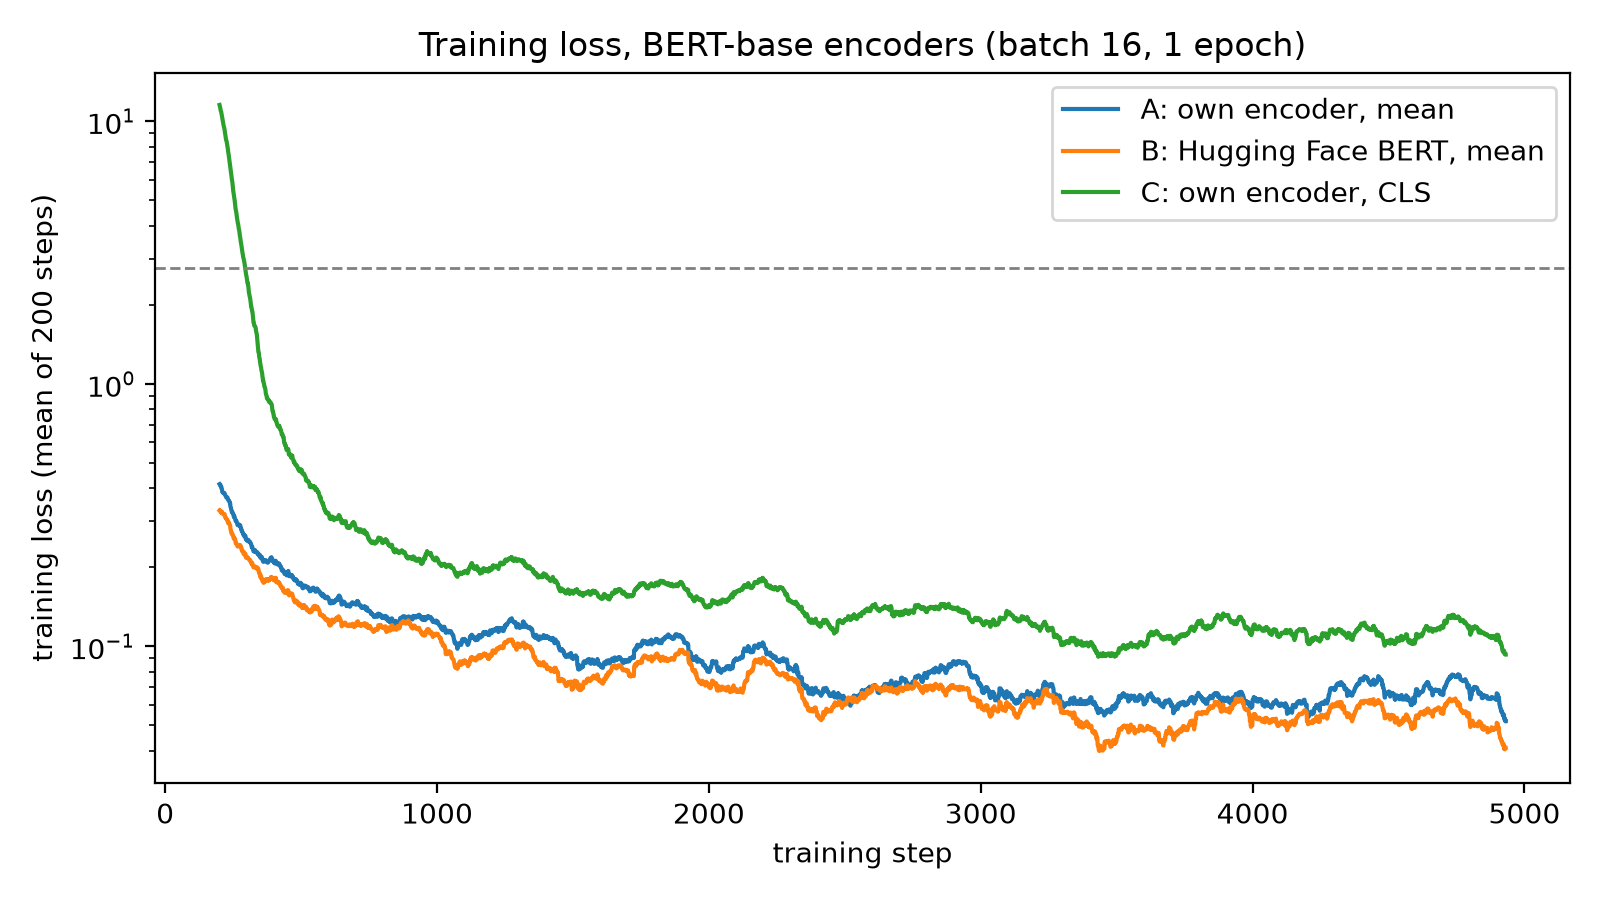
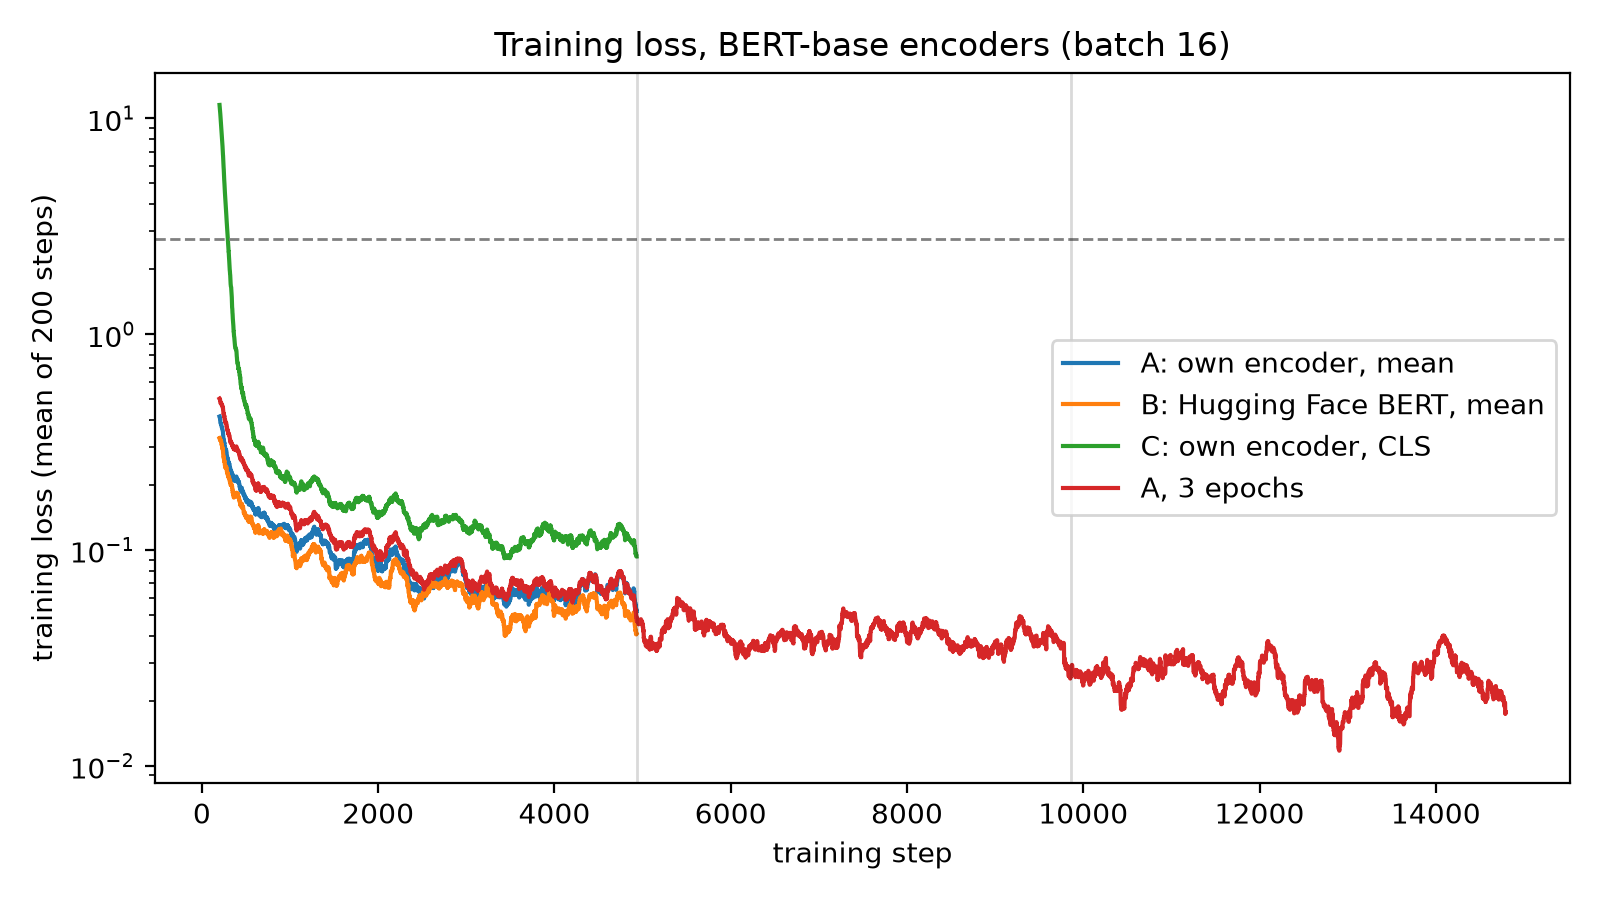
Add three-epoch run to the BERT loss plot

diff --git a/scripts/plot_training.py b/scripts/plot_training.py
@@ -66,17 +66,23 @@ bert_runs = [
     ("A: own encoder, mean", "dpr_30383528.out", 0, "tab:blue"),
     ("B: Hugging Face BERT, mean", "dpr_30383528.out", 1, "tab:orange"),
     ("C: own encoder, CLS", "dpr_30383528.out", 2, "tab:green"),
+    ("A, 3 epochs", "dpr_30394269.out", None, "tab:red"),
 ]
 fig, ax = plt.subplots(figsize=(8, 4.5))
 for label, name, part, colour in bert_runs:
-    losses = read_losses(name)[part * STEPS:(part + 1) * STEPS]
+    losses = read_losses(name)
+    if part is not None:
+        losses = losses[part * STEPS:(part + 1) * STEPS]
     steps = np.arange(WINDOW, len(losses) + 1)
     ax.plot(steps, smooth(losses), label=label, color=colour, linewidth=1.5)
 ax.axhline(math.log(16), color="grey", linestyle="--", linewidth=1)
+for step in (4931, 9862):
+    ax.axvline(step, color="black", alpha=0.15, linewidth=1)
+
 ax.set_yscale("log")
 ax.set_xlabel("training step")
 ax.set_ylabel(f"training loss (mean of {WINDOW} steps)")
-ax.set_title("Training loss, BERT-base encoders (batch 16, 1 epoch)")
+ax.set_title("Training loss, BERT-base encoders (batch 16)")
 ax.legend()
 fig.tight_layout()
 fig.savefig(OUT / "training_loss_bert.png", dpi=200)
